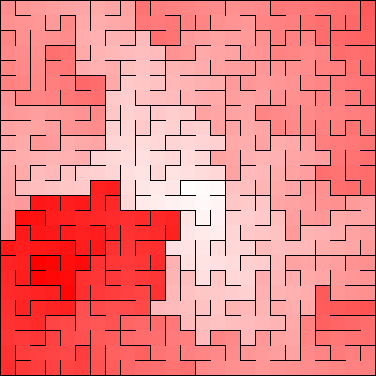
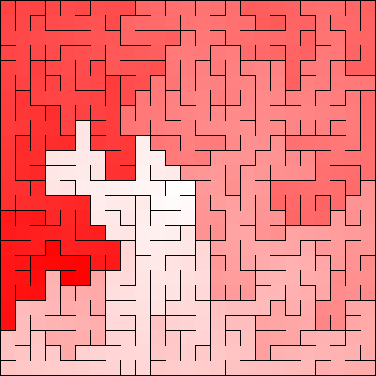
feat: implement dfs

diff --git a/mazes/mazes/depth_first_search.py b/mazes/mazes/depth_first_search.py
@@ -1,0 +1,28 @@
+from random import choice
+from typing import Optional
+
+from mazes.cells.basic_cell import BasicCell
+from mazes.grids.basic_grid import BasicGrid
+from mazes.mazes.base_maze import BaseMaze
+
+
+class DepthFirstSearch(BaseMaze):
+    def __call__(self, starting_cell: Optional[BasicCell] = None) -> BasicGrid:
+        if starting_cell is None:
+            starting_cell = self.grid.random_cell()
+
+        stack = []
+        stack.append(starting_cell)
+
+        while stack:
+            current = stack[-1]
+            neighbors = [n for n in current.neighbors if not n.links]
+
+            if neighbors:
+                neighbor = choice(neighbors)
+                current.link(neighbor)
+                stack.append(neighbor)
+            else:
+                stack.pop()
+
+        return self.grid

diff --git a/tests/integration/test_deadends.py b/tests/integration/test_deadends.py
@@ -1,5 +1,5 @@
 from mazes.grids.basic_grid import BasicGrid
-from mazes.mazes import AldousBroder, BinaryTree, Sidewinder, HuntAndKill, Wilson
+from mazes.mazes import AldousBroder, BinaryTree, HuntAndKill, Sidewinder, Wilson
 
 
 def test_deadends():
@@ -27,7 +27,8 @@ def test_deadends():
     total_cells = maze_dim * maze_dim
     print(f"\nAverage deadends per {maze_dim}x{maze_dim} maze ({total_cells} cells):")
 
-    for maze, average in sorted(maze_averages.items(), key=lambda item: item[1], reverse=True):
+    for maze, average in sorted(
+        maze_averages.items(), key=lambda item: item[1], reverse=True
+    ):
         percentage = (average * 100) / total_cells
         print(f"{maze:<15} {average:6.2f}/625     ({percentage:.2f}%)")
-

diff --git a/mazes/mazes/__init__.py b/mazes/mazes/__init__.py
@@ -1,7 +1,15 @@
 from .aldous_broder import AldousBroder
 from .binary_tree import BinaryTree
-from .sidewinder import Sidewinder
+from .depth_first_search import DepthFirstSearch
 from .hunt_and_kill import HuntAndKill
+from .sidewinder import Sidewinder
 from .wilson import Wilson
 
-__all__ = ["BinaryTree", "AldousBroder", "Sidewinder", "HuntAndKill", "Wilson"]
+__all__ = [
+    "BinaryTree",
+    "AldousBroder",
+    "Sidewinder",
+    "HuntAndKill",
+    "Wilson",
+    "DepthFirstSearch",
+]

diff --git a/tests/integration/test_dfs.py b/tests/integration/test_dfs.py
@@ -1,0 +1,18 @@
+from mazes.grids.colored_grid import ColoredGrid
+from mazes.mazes.depth_first_search import DepthFirstSearch
+
+
+def test_dfs():
+    grid = ColoredGrid(25, 25)
+    maze = DepthFirstSearch(grid)()
+
+    assert maze is not None
+
+    start_coord = maze.rows // 2, maze.cols // 2
+    start = maze[start_coord]
+
+    distances = start.distances()
+    maze.distances = distances
+
+    print(maze)
+    maze.to_png(output_name="examples/dfs.png")

diff --git a/mazes/grids/basic_grid.py b/mazes/grids/basic_grid.py
@@ -267,9 +267,7 @@ class BasicGrid:
                     cell.east_cell = self[row, col + 1]
                     cell.west_cell = self[row, col - 1]
 
-    def dead_ends(self) -> None:
+    def dead_ends(self) -> list[BasicCell]:
         deadend_cells = [c for c in self.iter_each_cell() if len(c.links) == 1]
-        
-        return deadend_cells
-        
 
+        return deadend_cells
